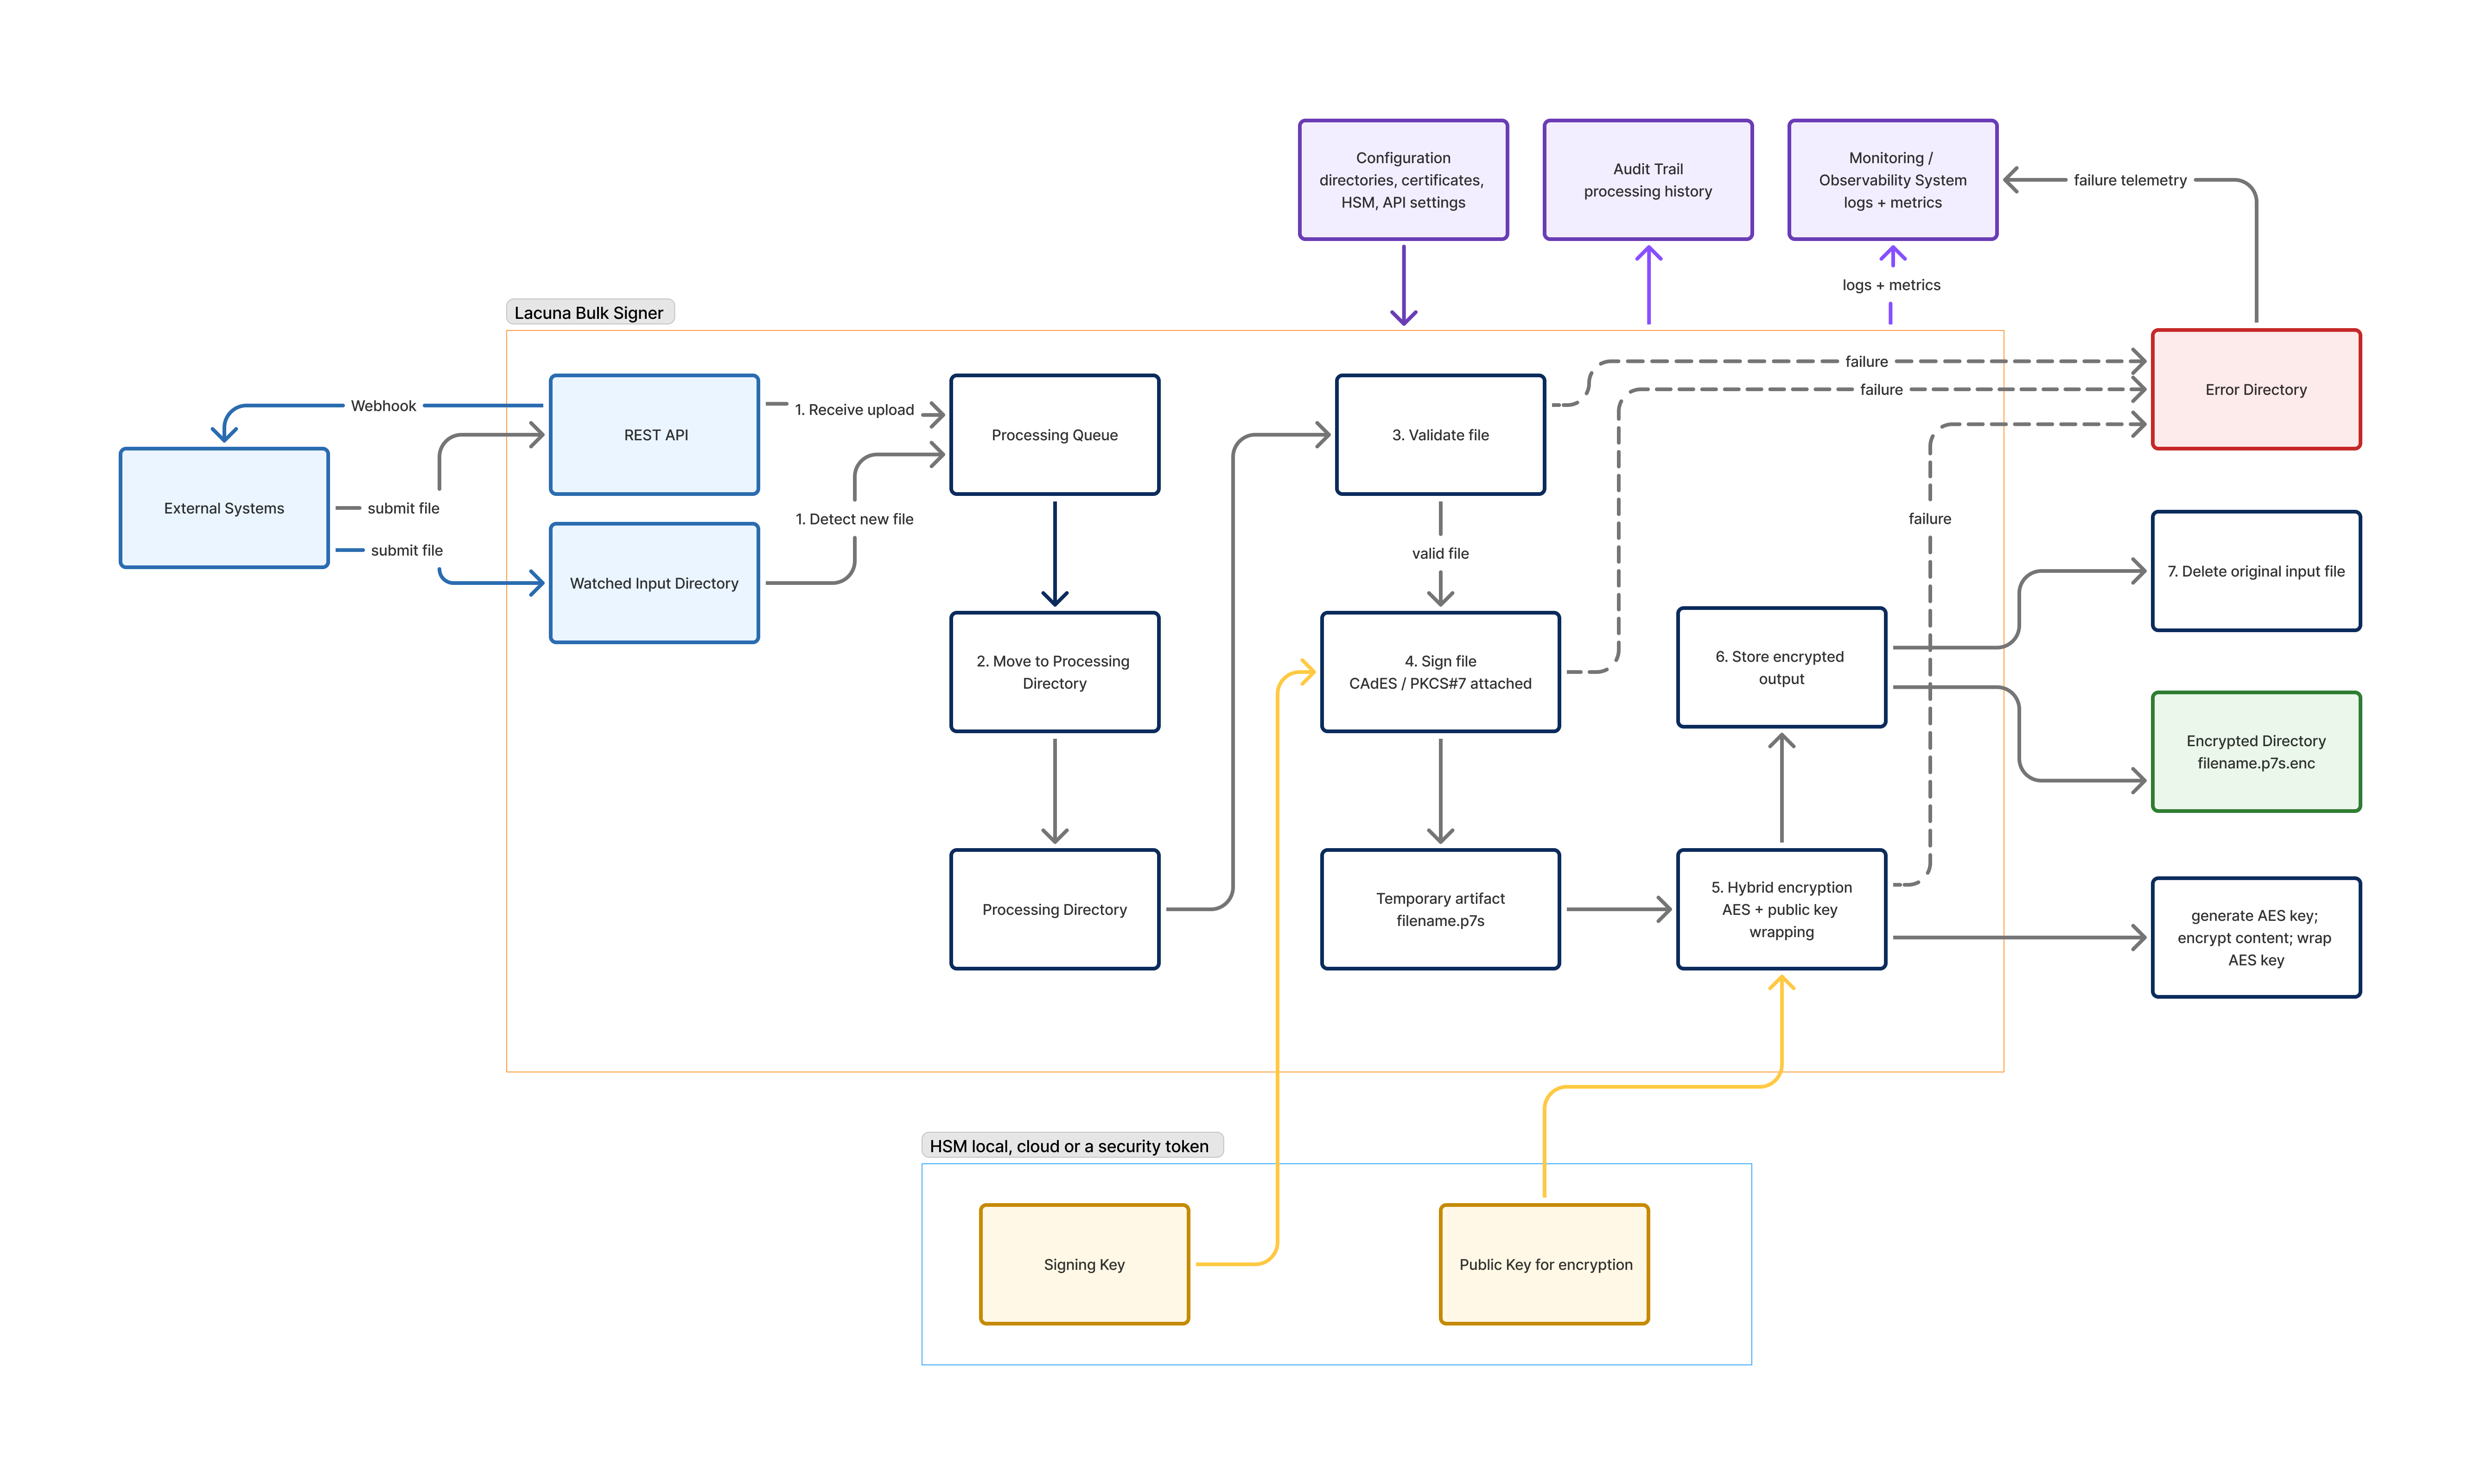
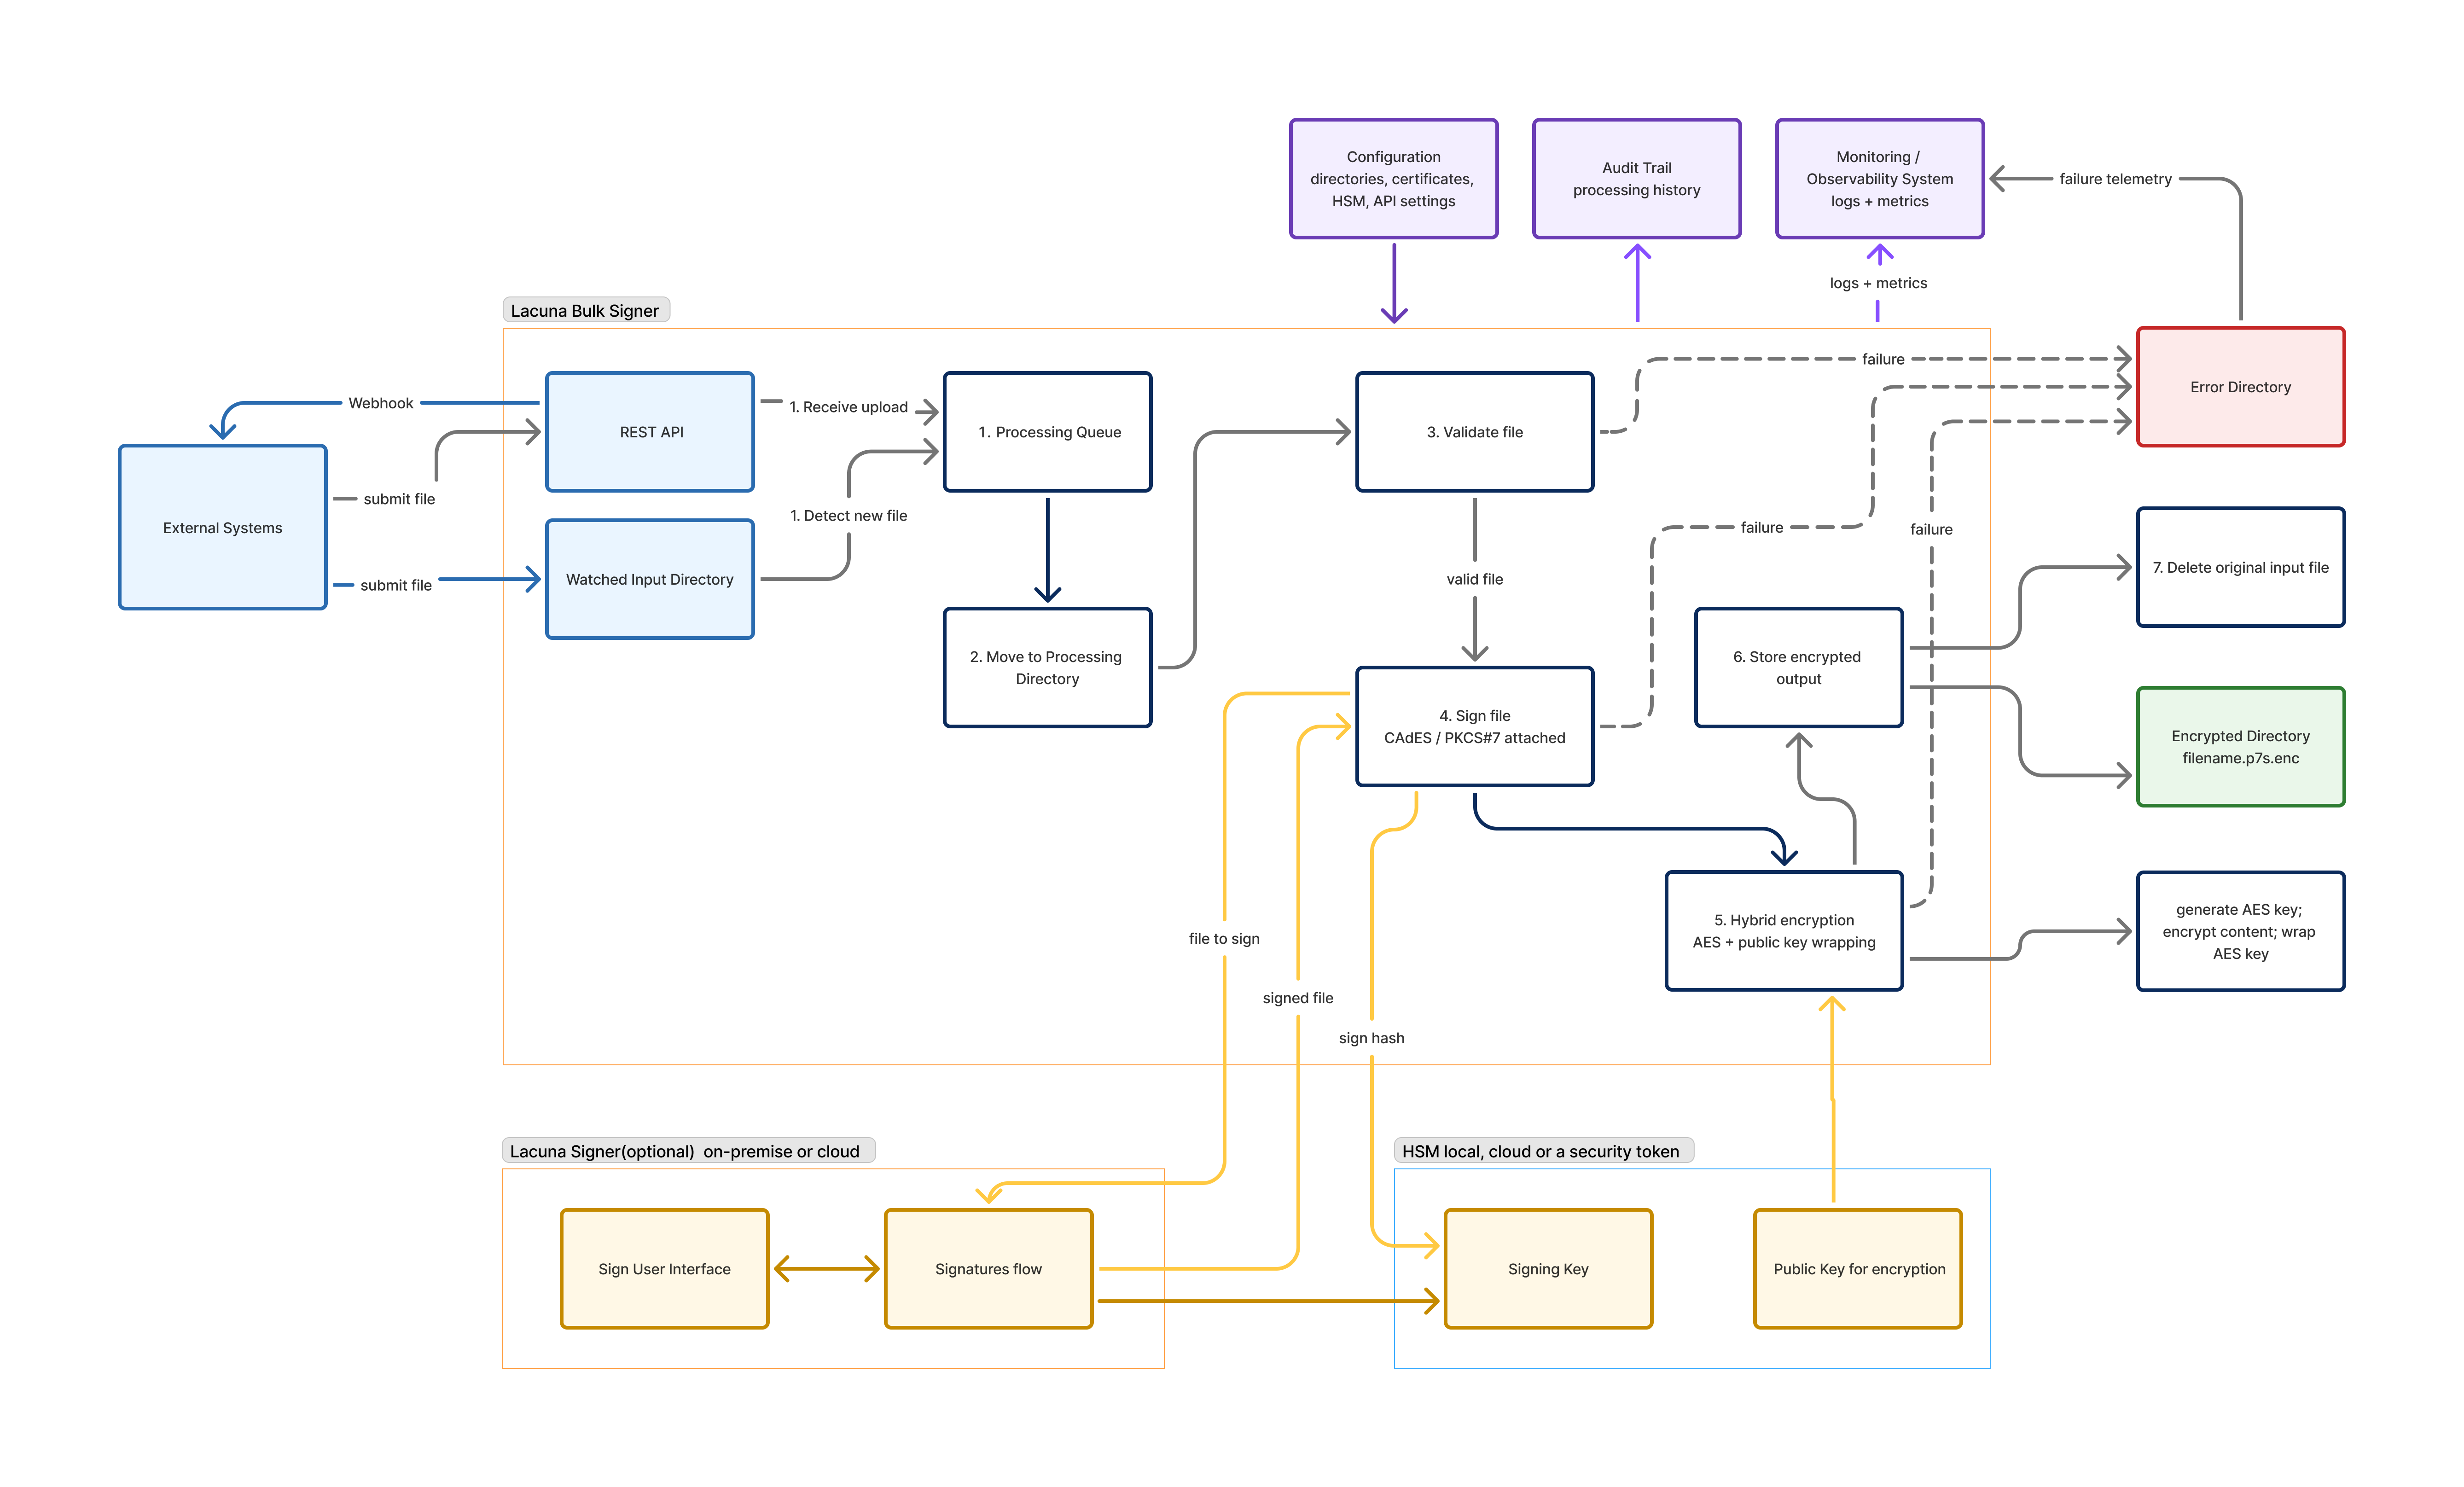
feat: add AI guidance for working with the repository
Introduces CLAUDE.md to provide comprehensive instructions and context for AI models (specifically Claude Code) to understand the documentation repository's structure, build process, content architecture, authoring rules, and conventions. This facilitates more accurate AI assistance in development and content generation.

diff --git a/CLAUDE.md b/CLAUDE.md
@@ -1,0 +1,72 @@
+# CLAUDE.md
+
+This file provides guidance to Claude Code (claude.ai/code) when working with code in this repository.
+
+## What this repo is
+
+Source for [docs.lacunasoftware.com](https://docs.lacunasoftware.com), the Lacuna Software documentation portal. It is **not an application** — it is a DocFX site whose content lives almost entirely in Markdown. Most edits are to `.md` files; PowerShell, C#, and JavaScript appear only in supporting tooling.
+
+## Build
+
+The site is built with [DocFX](https://dotnet.github.io/docfx/) (the legacy v2 line — note the `.zip` xref and `net45` metadata target). DocFX is **not** installed by this repo; install it separately and have `docfx.exe` on PATH.
+
+- Build English site: `cd docs.en-us; docfx.exe docfx.json` → outputs to `_site/en-us/`
+- Build Portuguese site: `cd docs.pt-br; docfx.exe docfx.json` → outputs to `_site/pt-br/`
+- The `metadata` step in each `docfx.json` expects sibling repositories two levels up (`../../RestClient`, `../../PKI`, `../../RestPkiClient`, `../../PkiNLogConnector`, `../../PkiEntityFrameworkConnector`, `../../PkiAmazonConnector`, `../../PkiAzureConnector`) to generate the .NET API reference into `/api/`. If you don't have those checkouts, the `build` step still works — generated `/api/**.yml` is consumed if present and skipped otherwise (and `/api/` is gitignored).
+
+PDF generation (Portuguese only) is described in `pdf/README.md`. It is a manual workflow run from `C:\AppData\DocsBuild\docs-pre\docs.pt-br` against `docs.pt-br/docfx-pdf.json`, using `pdf/Fill-Articles.ps1` to backfill articles that exist only in English (those whose pt-br file is a `data-alt-locales` stub).
+
+## The .sln and .csproj files are folder stubs
+
+`docs.sln` exists so the repo opens cleanly in Visual Studio. The `docs.en-us`, `docs.pt-br`, `template`, and `includes` projects all use `<Compile Remove="**" />` — they compile nothing and exist only so the folders appear in Solution Explorer. **Do not** try to "build the solution" to build the docs; use `docfx.exe` as above.
+
+The one real project is `snippets/snippets.csproj` (`net45`, `win7-x86`, references `Lacuna.Pki` 1.16.9). It's a console runner that reflects over its own assembly and lets you pick a snippet class to execute interactively — used to verify that documented C# code actually compiles and runs.
+
+## Content architecture
+
+This is the part that requires reading multiple files to understand:
+
+**Two parallel content trees, one set of shared resources.** `docs.en-us/articles/` and `docs.pt-br/articles/` mirror each other folder-for-folder and (mostly) file-for-file. The build produces two completely separate sites. Both `docfx.json` files reach **up one directory** (`cwd: ".."`) to pull from the **shared** top-level folders:
+
+- `images/` — all screenshots, diagrams, logos. Reference from articles with `../../../images/...`.
+- `content/` — large binary resources (zips, javadocs, typedocs output).
+- `fonts/` — site fonts.
+- `includes/` — Markdown fragments shared between languages and across articles. Reference from articles with `[!include[...](../../../includes/...)]`. Organized by product (`signer/`, `pki-express/`, `rest-pki/`, etc.) and by deployment target subfolders (`linux/`, `windows/`, `docker/`, `centos/`, `rhel/`, `ubuntu/`).
+- `api/` — DocFX-generated .NET API metadata (gitignored).
+- `typedocs/` — TypeScript declaration source for the Web PKI API reference; build emits into `content/typedocs/web-pki/` (see `typedocs/README.md`).
+- `template/` — the custom DocFX template (liquid partials, mustache `.tmpl`, CSS/JS) used by both languages.
+
+**Article-local images** live in `docs.{lang}/articles/<product>/images/` and are pulled in by the second resource glob in `docfx.json`. Use these for one-off images; use the shared `/images/` tree for anything reusable.
+
+**Cross-language stub articles.** When only one language has content, the other language's file is a stub that points at its counterpart:
+
+```md
+# Article title
+
+<!-- link to version in Portuguese -->
+<div data-alt-locales="pt-br"></div>
+```
+
+The PDF build (`pdf/Fill-Articles.ps1`) overwrites these stubs with the English version (backing up first) so the PDF is complete in one language.
+
+## Authoring rules to remember
+
+These are the non-obvious ones — full markdown reference is in `docs.en-us/articles/welcome/contributing.md`.
+
+- **Always create new articles in both `docs.en-us/articles/` and `docs.pt-br/articles/`**, and add the entry to **both** `articles/toc.md` files. Use UTF-8 **with BOM** — the easiest way to get this right is to copy an existing article rather than creating a fresh file.
+- **Horizontal rule is `***`, not `---`.** `---` is YAML front-matter to DocFX and will break the page.
+- **Anchors:** if the article is English and the section title slugged (lowercase, spaces→hyphens) matches the desired anchor, no anchor declaration is needed. Otherwise declare `<a name="anchor-name" />` right above the heading. Portuguese articles always need explicit anchors.
+- **API cross-references:** `@Lacuna.RestPki.Client.RestPkiClient` works for most cases. If the UID contains `#` (e.g. constructors), use `<xref:Lacuna.Pki.LinkedTrustArbitrator.%23ctor(Lacuna.Pki.ITrustArbitrator[])>`. Find exact UIDs in the generated `/api/*.yml` after a metadata build.
+- **API doc overwrite files** in `docs.{lang}/apidoc/*.md` (e.g. `Lacuna.Pki.Cades.CadesSignatureCompression.md`) augment auto-generated API pages — they're picked up via the `overwrite` section in `docfx.json`, not the regular `content` section.
+- **Ordered lists:** prefer `1.` on every item; DocFX re-numbers on render and this makes reordering trivial.
+
+## Scripts
+
+- `scripts/Update-PkieVersion.ps1 <x.y.z>` — bulk-replaces the PKI Express version string in the install/update/link include files under `includes/pki-express/{linux,windows}/`. Uses Windows-1252 byte-level read/write to preserve each file's original encoding and BOM. Run from the `scripts/` folder.
+- `pdf/Fill-Articles.ps1` — see PDF section above. Run from a `docs.pt-br` working copy, not from this repo's `pdf/` folder.
+
+## Conventions that aren't obvious from a single file
+
+- **Signer release flow** (visible in `git log`): one branch per Signer version (`signer/x.y.z`), commits land changelog → binaries references → settings, then the branch is merged. When updating Signer docs for a new release, expect to touch `docs.{lang}/articles/signer/changelog.md`, version-bearing files under `includes/signer/`, and the corresponding settings article — in both languages.
+- **`_disableContribution: true`** in front-matter (see `docs.en-us/index.md`) hides the "Edit on GitHub" link on landing pages.
+- The custom template's strings come from `template/token.json` — edit there, not in the `.tmpl` files, to retitle sections like "Inheritance", "Examples", etc.